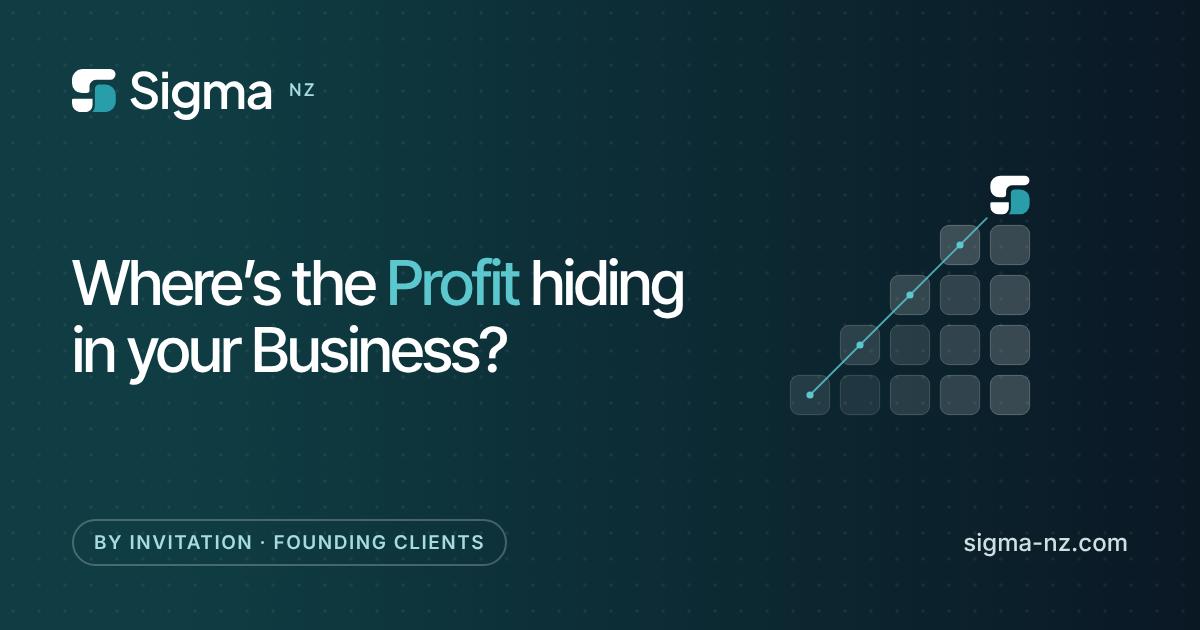
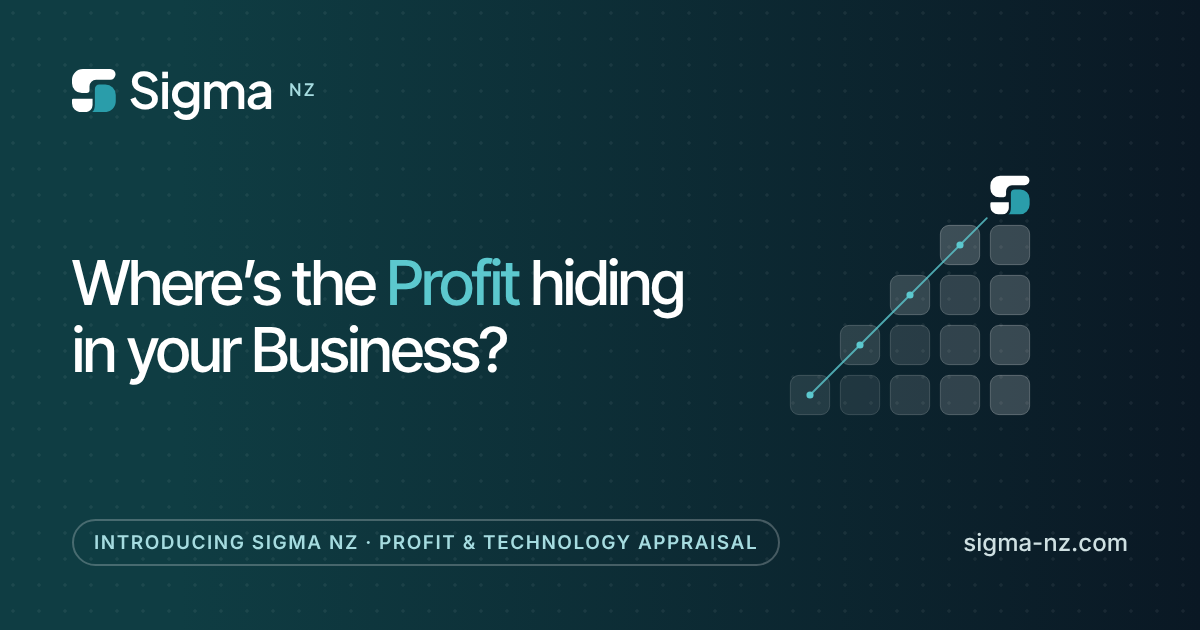
Preview: hero label reads 'Introducing Sigma NZ · Profit & technology appraisal' (second half only on phones); social image to match
Claude-Session: https://claude.ai/code/session_01DSQcB5r2Yb1yH5XMX9vJf5

Changed region(s): [[0.0617, 0.8143, 0.6475, 0.9048]]

diff --git a/public/index.html b/public/index.html
@@ -64,8 +64,8 @@
  ]
 }
 </script>
-<link rel="stylesheet" href="/styles.css?v=20261105b">
-<script src="/main.js?v=20261105b" defer></script>
+<link rel="stylesheet" href="/styles.css?v=20261106">
+<script src="/main.js?v=20261106" defer></script>
 </head>
 <body>
 <a class="skip" href="#main">Skip to content</a>
@@ -91,7 +91,7 @@
   <svg class="shift" viewBox="0 0 320 110" preserveAspectRatio="xMaxYMax meet" aria-hidden="true"><path d="M0 109.4L4 109.1L8 108.9L12 108.5L16 108.1L20 107.5L24 106.8L28 106.0L32 105.0L36 103.9L40 102.5L44 101.0L48 99.2L52 97.2L56 95.0L60 92.5L64 89.9L68 87.1L72 84.2L76 81.2L80 78.2L84 75.2L88 72.3L92 69.5L96 67.0L100 64.8L104 63.0L108 61.5L112 60.6L116 60.1L120 60.1L124 60.6L128 61.5L132 63.0L136 64.8L140 67.0L144 69.5L148 72.3L152 75.2L156 78.2L160 81.2L164 84.2L168 87.1L172 89.9L176 92.5L180 95.0L184 97.2L188 99.2L192 101.0L196 102.5L200 103.9L204 105.0L208 106.0L212 106.8L216 107.5L220 108.1L224 108.5L228 108.9L232 109.1L236 109.4L240 109.5L244 109.6L248 109.7L252 109.8L256 109.9L260 109.9L264 109.9L268 110.0L272 110.0L276 110.0L280 110.0L284 110.0L288 110.0L292 110.0L296 110.0L300 110.0L304 110.0L308 110.0L312 110.0L316 110.0L320 110.0L320 110L0 110Z" fill="#FFFFFF" fill-opacity="0.07"/><path d="M0 110.0L4 110.0L8 110.0L12 110.0L16 110.0L20 110.0L24 110.0L28 110.0L32 110.0L36 109.9L40 109.9L44 109.9L48 109.8L52 109.8L56 109.7L60 109.5L64 109.4L68 109.2L72 108.9L76 108.5L80 108.1L84 107.5L88 106.8L92 106.0L96 104.9L100 103.7L104 102.2L108 100.4L112 98.4L116 96.0L120 93.3L124 90.2L128 86.8L132 83.1L136 79.0L140 74.6L144 70.0L148 65.2L152 60.3L156 55.4L160 50.4L164 45.7L168 41.1L172 37.0L176 33.2L180 30.0L184 27.4L188 25.5L192 24.4L196 24.0L200 24.4L204 25.5L208 27.4L212 30.0L216 33.2L220 37.0L224 41.1L228 45.7L232 50.4L236 55.4L240 60.3L244 65.2L248 70.0L252 74.6L256 79.0L260 83.1L264 86.8L268 90.2L272 93.3L276 96.0L280 98.4L284 100.4L288 102.2L292 103.7L296 104.9L300 106.0L304 106.8L308 107.5L312 108.1L316 108.5L320 108.9" fill="none" stroke="#2A9DAA" stroke-width="1.5" vector-effect="non-scaling-stroke"/></svg>
   <div class="wrap hero-grid">
     <div class="hero-copy">
-      <p class="pill">By invitation · Founding clients</p>
+      <p class="pill"><span class="pill-intro">Introducing Sigma NZ&nbsp;·&nbsp;</span><span>Profit &amp; technology appraisal</span></p>
       <h1 class="headline"><span class="headline-light">Where’s the <span class="hl">Profit</span> hiding</span> <span class="headline-bold">in your Business?</span></h1>
       <p class="lead">Sigma NZ is an invitation-only technology appraisal and AI automation advisory for New Zealand business owners. We show you where technology and AI could unlock growth, speed and new potential. We prioritise the highest-value changes and show you the return on each.</p>
       <div class="hero-actions">

diff --git a/public/privacy.html b/public/privacy.html
@@ -11,8 +11,8 @@
 <link rel="icon" href="/icon.svg" type="image/svg+xml">
 <link rel="apple-touch-icon" href="/apple-touch-icon.png">
 <link rel="manifest" href="/manifest.webmanifest">
-<link rel="stylesheet" href="/styles.css?v=20261105b">
-<script src="/main.js?v=20261105b" defer></script>
+<link rel="stylesheet" href="/styles.css?v=20261106">
+<script src="/main.js?v=20261106" defer></script>
 </head>
 <body>
 <a class="skip" href="#main">Skip to content</a>

diff --git a/public/404.html b/public/404.html
@@ -8,7 +8,7 @@
 <meta name="theme-color" content="#0B2E33">
 <link rel="icon" href="/favicon.ico" sizes="32x32">
 <link rel="icon" href="/icon.svg" type="image/svg+xml">
-<link rel="stylesheet" href="/styles.css?v=20261105b">
+<link rel="stylesheet" href="/styles.css?v=20261106">
 </head>
 <body>
 <header class="site-header">

diff --git a/public/styles.css b/public/styles.css
@@ -164,6 +164,7 @@ select option{color:var(--on-accent);background:#FFFFFF}
 .updated{color:var(--muted);font-size:15px}
 
 @media (max-width:640px){
+  .pill-intro{display:none}
   .nav-link{display:none}
   .brand{font-size:22px}
   .bar{padding-left:16px}
